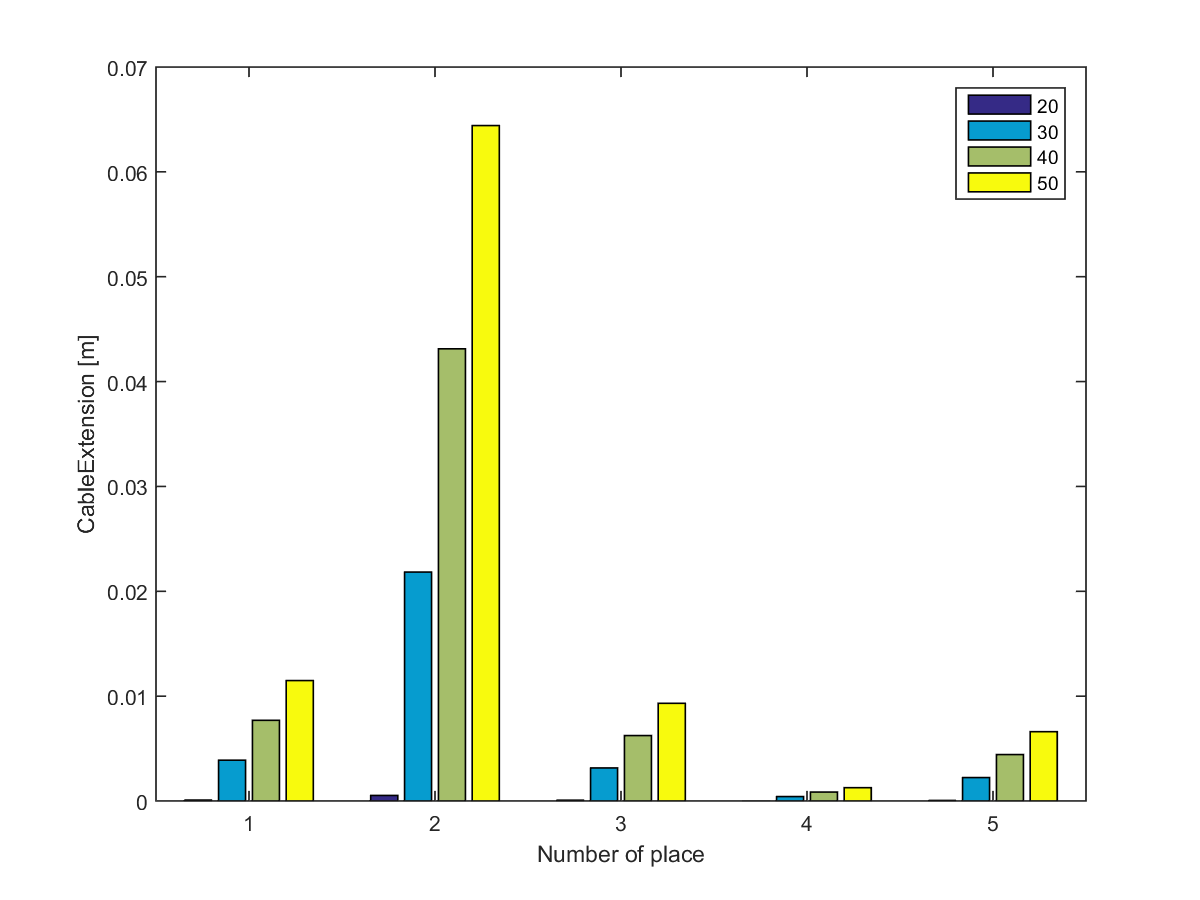
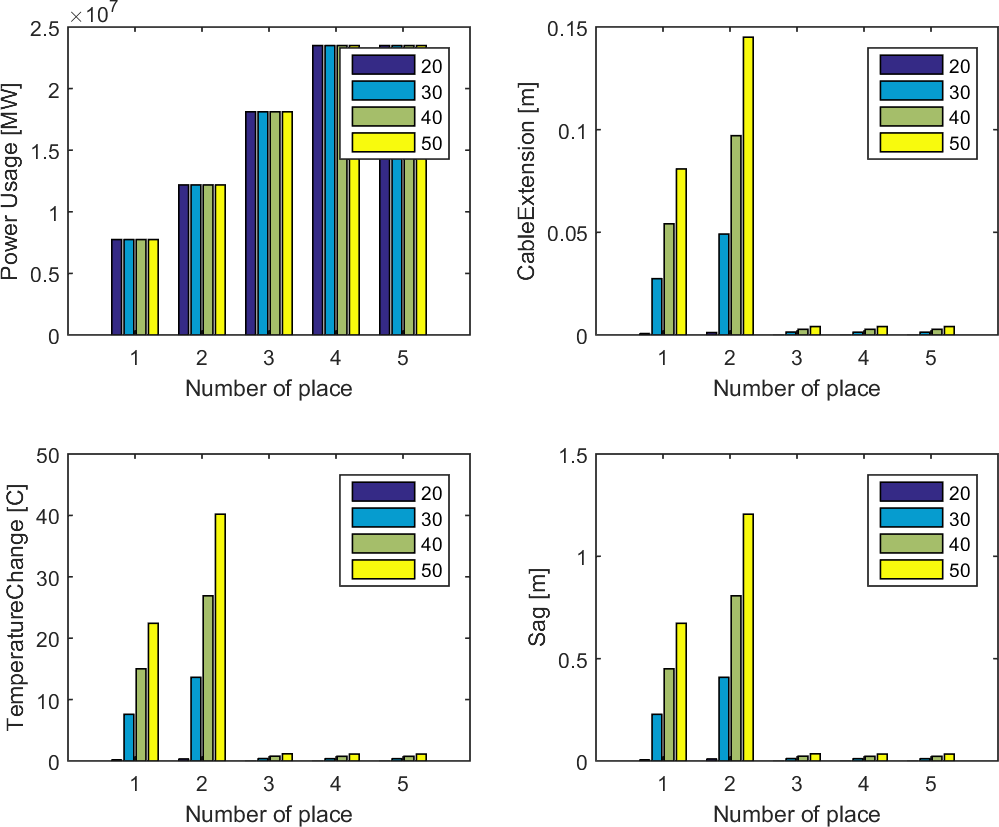
plot impoved

diff --git a/powergrid.m b/powergrid.m
@@ -130,11 +130,11 @@ for j = 1 :   length(priorities);
        
         
         
-        fig =figure(j*i+ 1);
+        fig =figure(j*i+ 12);
         %title(strcat('Segment nr '), num2str(j));
         %hold on;
         
-        
+        subplot(2,2,1);
        
         
         
@@ -146,35 +146,35 @@ for j = 1 :   length(priorities);
         
         
         bar(newPower);
-        legend('20', '30', '40', '50');
+         legend('20', '30', '40', '50');
        
         ylabel('Power Usage [MW]');
         xlabel('Number of place');
-        print(fig,strcat('sim', num2str(j), num2str(i), num2str(1)),'-dpng');
-        fig = figure(j*i+ 2);
-        %subplot(2,2,2);
+        %print(fig,strcat('sim', num2str(j*i +1),'-dpng');
+        
+        subplot(2,2,2);
          bar(newExtend);
-        legend('20', '30', '40', '50');
+          legend('20', '30', '40', '50');
        
         ylabel('CableExtension [m]');
         xlabel('Number of place');
-        print(fig,strcat('sim', num2str(j), num2str(i), num2str(2)),'-dpng');
-         %subplot(2,2,3);
-        fig = figure(j*i+ 3);
+        %print(fig,strcat('sim', num2str(j*i +2),'-dpng');
+        subplot(2,2,3);
+        %fig = figure(j*i+ 3);
          bar(newTemp);
          legend('20', '30', '40', '50');
        
         ylabel('TemperatureChange [C]');
         xlabel('Number of place');
-         print(fig,strcat('sim', num2str(j), num2str(i), num2str(3)),'-dpng');
-        %subplot(2,2,4);
-        fig = figure(j*i+ 4);
+        
+        subplot(2,2,4);
+        
         bar(newSag);
         ylabel('Sag [m]');
         xlabel('Number of place');
     
         legend('20', '30', '40', '50');
-         print(fig,strcat('sim', num2str(j), num2str(i), num2str(4)),'-dpng');
+         print(fig,strcat('sim', num2str(j), num2str(i)),'-dpng');
        
         
    

diff --git a/newdata.m b/newdata.m
@@ -1,4 +1,4 @@
-aluminiumSpecificHeat = 900;
+maaluminiumSpecificHeat = 900;
 
 aluminiumTemperatureResistanceCoefficient = 4;
 
